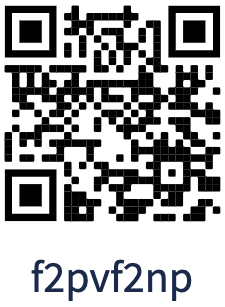
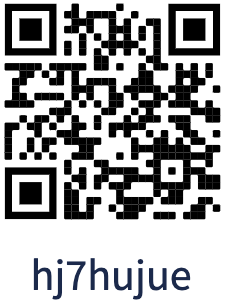
fix qr on compatibility page

diff --git a/src/main/resources/templates/compatibility.html b/src/main/resources/templates/compatibility.html
@@ -62,7 +62,7 @@
   <a href="/manualqr">QR koodin syöttö</a>
 </p>
 <p>
-  Lue alla oleva QR-koodi ( f2pvf2np ) testaaksesi ominaisuuden toimivuus.
+  Lue alla oleva QR-koodi ( hj7hujue ) testaaksesi ominaisuuden toimivuus.
 </p>
 <img class="w100" src="/images/qrTestCode.png">
 
